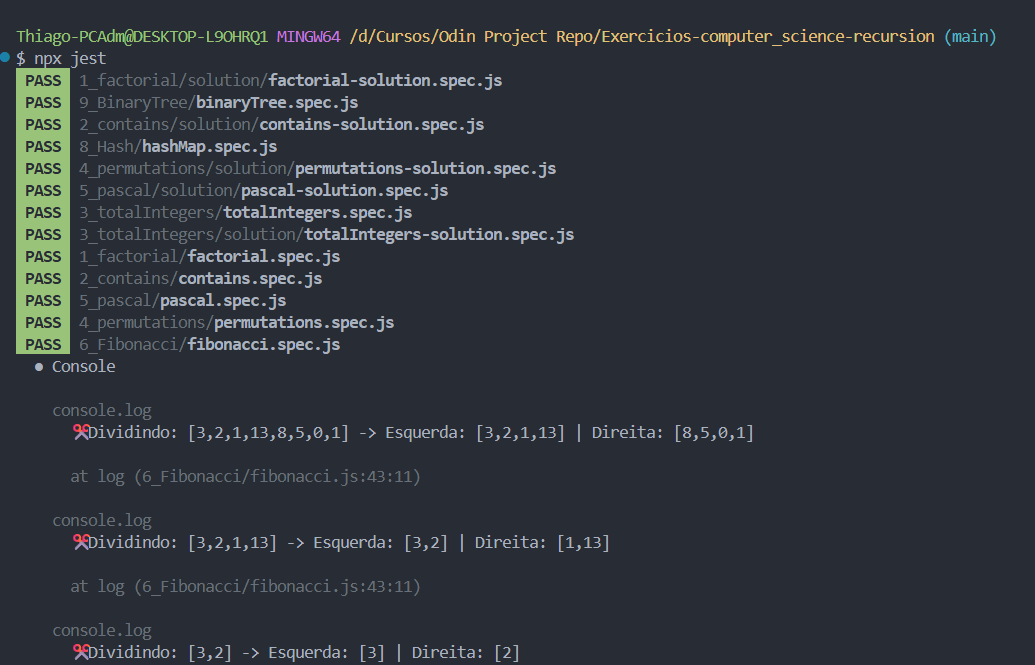
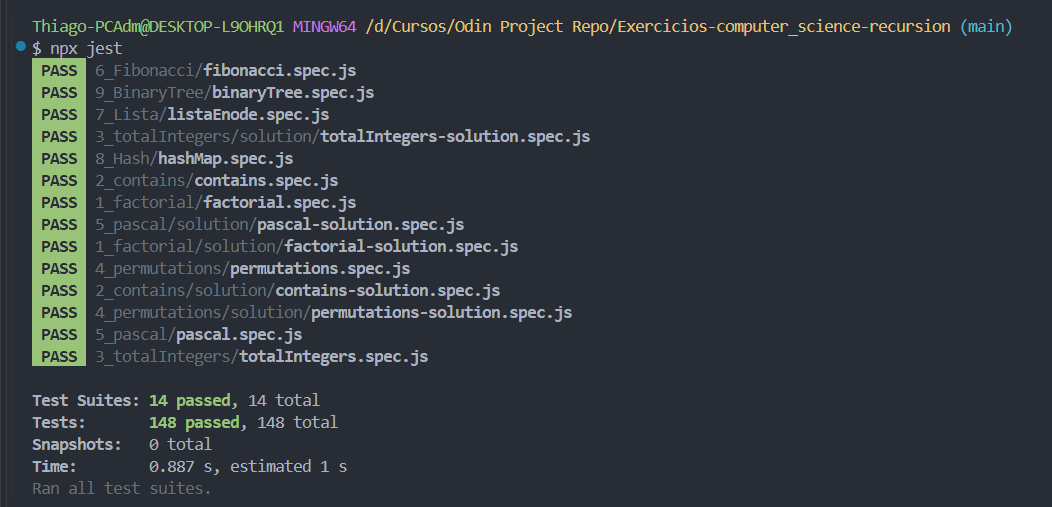
adicionado imagens exemplo

Changed region(s): [[0.0, 0.0296, 0.9585, 0.7396], [0.0309, 0.7692, 0.5874, 1.0]]

diff --git a/6_Fibonacci/fibonacci.js b/6_Fibonacci/fibonacci.js
@@ -22,7 +22,7 @@ function fibsRec(n) {
   //
   let arrayAnterior = fibsRec(n - 1);
   //
-  console.log(arrayAnterior);
+  //console.log(arrayAnterior);
   //
   let ultimo = arrayAnterior[arrayAnterior.length - 1];
   let penultimo = arrayAnterior[arrayAnterior.length - 2];
@@ -40,9 +40,9 @@ function mergeSort(arrayRecebido) {
   let direita = arrayRecebido.slice(metade, arrayRecebido.length);
   //
   // LOG 1: Mostra a divisão acontecendo
-  console.log(
-    `✂ Dividindo: [${arrayRecebido}] -> Esquerda: [${esquerda}] | Direita: [${direita}]`,
-  );
+  //console.log(
+    //`✂ Dividindo: [${arrayRecebido}] -> Esquerda: [${esquerda}] | Direita: [${direita}]`,
+  //);
   //
   let esquerdaOrdenada = mergeSort(esquerda);
   let direitaOrdenada = mergeSort(direita);
@@ -73,14 +73,14 @@ function merge(esquerda, direita) {
     ...direita.slice(iDireita)
   ];
   // LOG 2: Mostra a intercalação dos dois lados
-  console.log(
-    `🧩 Juntando [${esquerda}] + [${direita}] -> Resultado: [${resultadoFinal}]`,
-  );
+  //console.log(
+  //  `🧩 Juntando [${esquerda}] + [${direita}] -> Resultado: [${resultadoFinal}]`,
+  //);
   //
   return resultadoFinal;
 }
 
-console.log("Resultado:", mergeSort([3, 2, 1, 13, 8, 5, 0, 1]));
+//console.log("Resultado:", mergeSort([3, 2, 1, 13, 8, 5, 0, 1]));
 //console.log(fibsRec(8));
 
 module.exports = {
